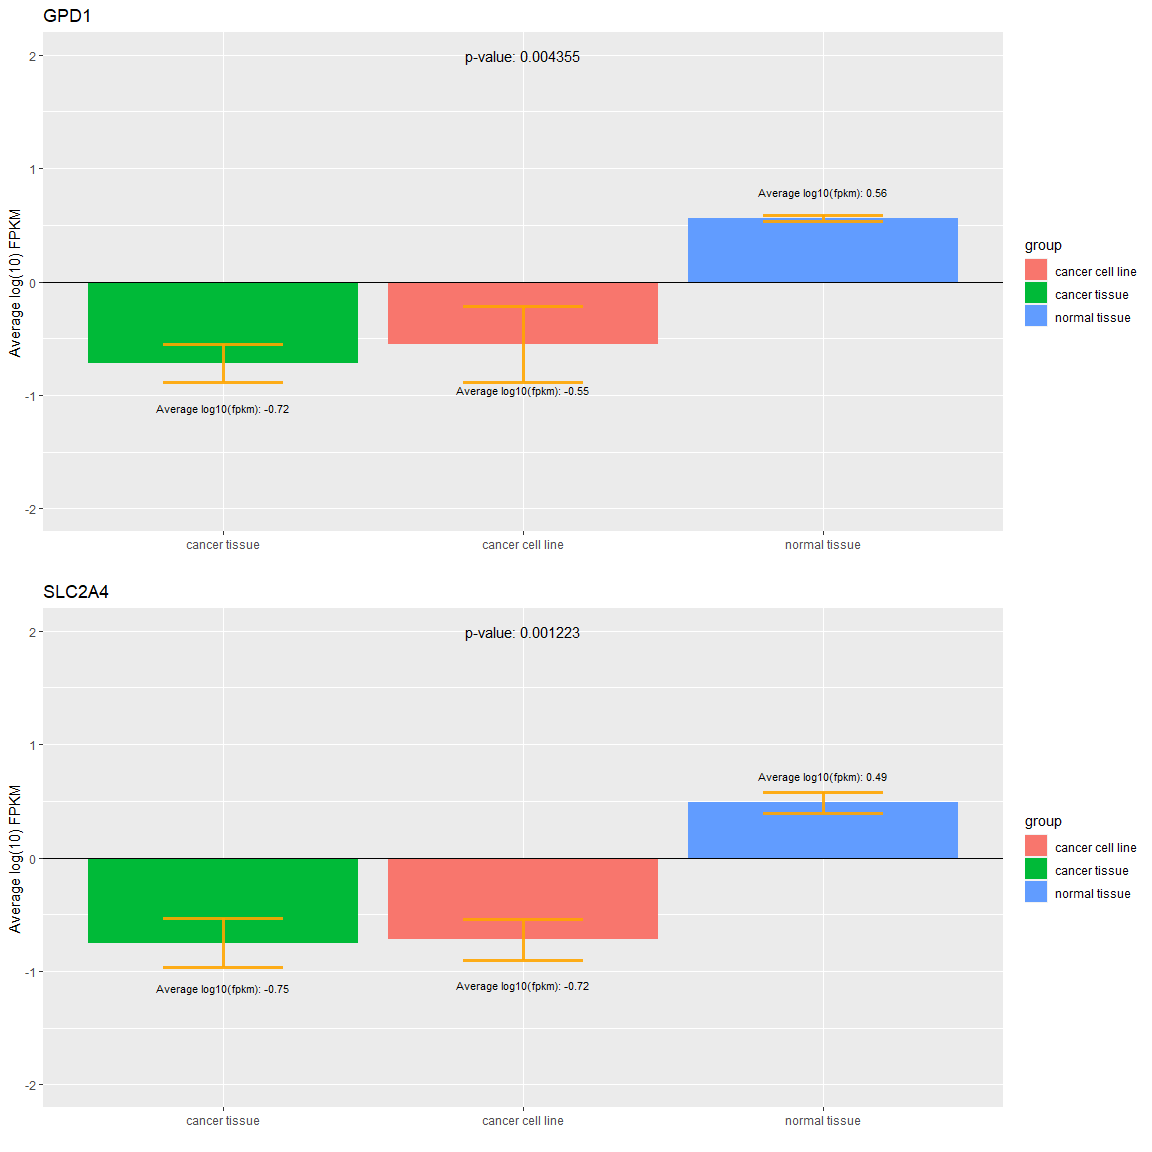
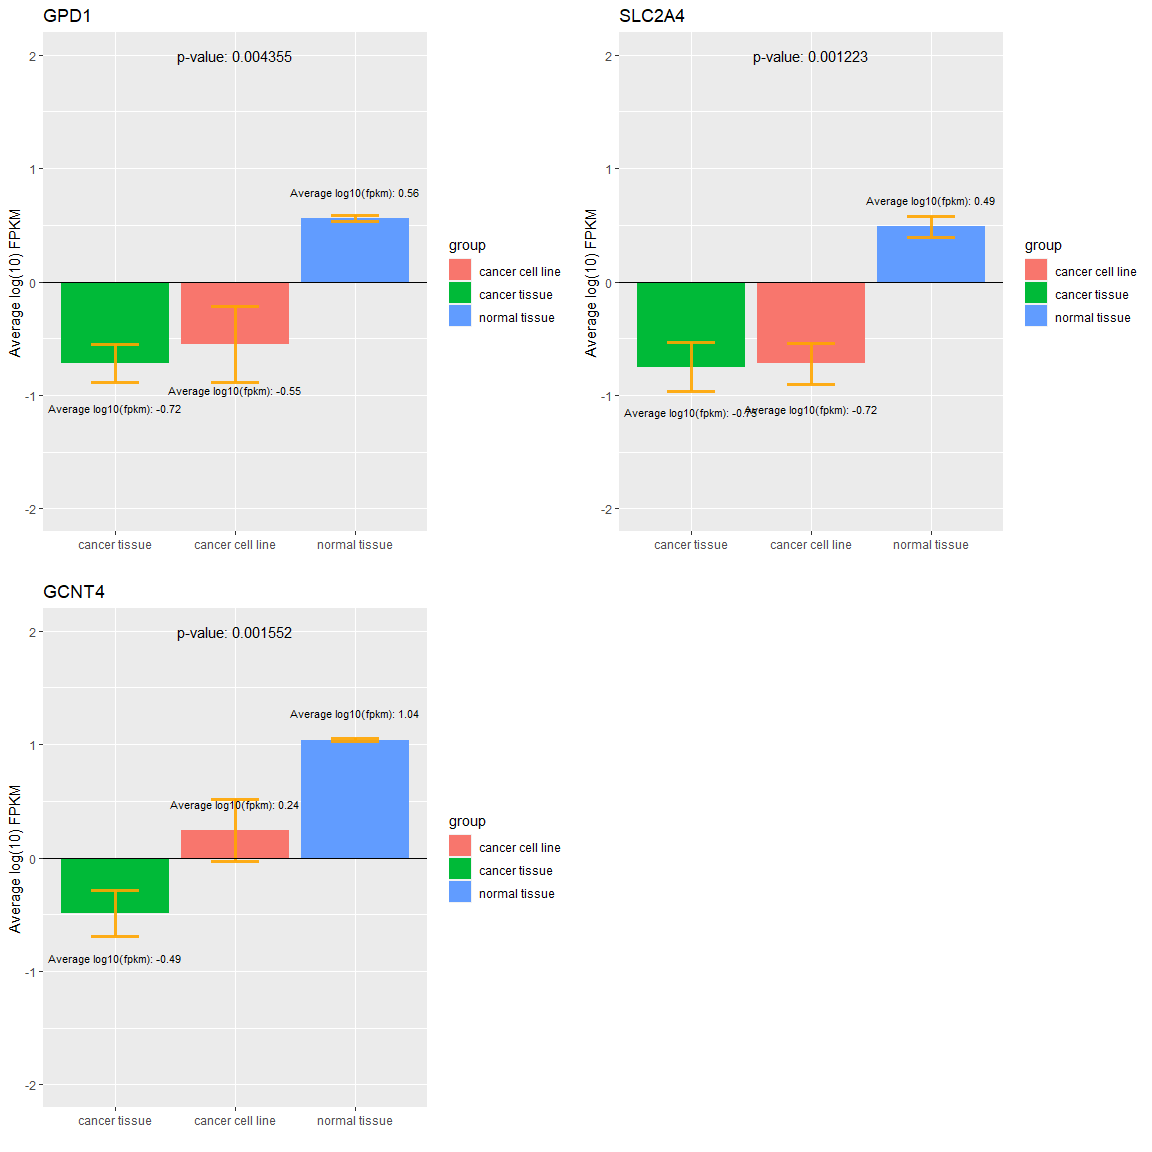
loading webshot and adding 3rd gene of interest

diff --git a/README.md b/README.md
@@ -18,6 +18,7 @@ library(gridExtra)
 library(tidytext)
 library(readxl)
 library(circlize)
+library(webshot)
 ```
 
 #### Plot Read Counts For all 8 Samples
@@ -91,10 +92,7 @@ grViz("digraph flowchart {
       ")
 ```
 
-    ## PhantomJS not found. You can install it with webshot::install_phantomjs(). If it is installed, please make sure the phantomjs executable can be found via the PATH variable.
-
-<div id="htmlwidget-286df22d1a4db59614d9" style="width:768px;height:576px;" class="grViz html-widget"></div>
-<script type="application/json" data-for="htmlwidget-286df22d1a4db59614d9">{"x":{"diagram":"digraph flowchart {\n      # node definitions with substituted label text\n      node [fontname = Arial, shape = rectangle, color = Lavender, style = filled]        \n      tab1 [label = \"Download read (FASTQ) files from SRA using SRA-Toolkit\"]\n      tab2 [label = \"Download reference genome (FASTA) and annotation (GTF) files from Ensembl\"]\n      tab3 [label = \"Build index with Bowtie2\"]\n      tab4 [label = \"Align reads to whole genome using Tophat2 (BAM)\"]\n      tab5 [label = \"Align reads to whole transcriptome using Tophat2 (BAM)\"]\n      tab6 [label = \"Obtain FPKM values using Cuffdiff with statistics turned off\"]\n      tab7 [label = \"Obtain p-values and log2 fold differences between normal and cancer tissue using Cuffdiff with statistics on\"]\n      tab8 [label = \"Output file: genes.fpkm_tracking\"]\n      tab9 [label = \"Output file: gene_exp.diff\"]\n\n      # edge definitions with the node IDs\n      tab1 -> tab3;\n      tab2 -> tab3;\n      tab3 -> tab4; \n      tab3 -> tab5;\n      tab4 -> tab6;\n      tab4 -> tab7;\n      tab6 -> tab8;\n      tab7 -> tab9;\n      }","config":{"engine":"dot","options":null}},"evals":[],"jsHooks":[]}</script>
+<img src="README_files/figure-gfm/Flowchart of bioinformatic workflow-1.png" style="display: block; margin: auto;" />
 
 #### Post-Tophat2 Alignment Metrics
 
@@ -237,8 +235,7 @@ grViz(diagram = "digraph flowchart {
       ")
 ```
 
-<div id="htmlwidget-16570ea1098781111bd7" style="width:768px;height:576px;" class="grViz html-widget"></div>
-<script type="application/json" data-for="htmlwidget-16570ea1098781111bd7">{"x":{"diagram":"digraph flowchart {\n      # define node aesthetics\n      node [fontname = Arial, shape = rect, color = DeepSkyBlue, style = filled, fontcolor = White]        \n      tab1 [label = \"Initial Number of Genes: 62,635\"]\n      tab2 [label = \"Filter p-value < 0.001 and log2 fold change < -5 or > 5\"]\n      tab3 [label = \"280 Genes Remaining\"]\n      tab4 [label = \"198 Genes Downregulated\"]\n      tab5 [label = \"82 Genes Upregulated\"]\n# set up node layout\n      tab1 -> tab2;\n      tab2 -> tab3;\n      tab3 -> tab4;\n      tab3 -> tab5\n      }","config":{"engine":"dot","options":null}},"evals":[],"jsHooks":[]}</script>
+<img src="README_files/figure-gfm/gene filtering-1.png" style="display: block; margin: auto;" />
 
 Perform filtering of genes according to the above diagram
 
@@ -863,7 +860,21 @@ p2 <- lm_df %>%
         group, lm_df)), 6), sep = " "), x = 2, y = 2)
 
 
-grid.arrange(p1, p2, ncol = 1)
+p3 <- lm_df %>%
+    select(group, GCNT4) %>%
+    group_by(group) %>%
+    summarise(mean = mean(GCNT4), sd = sd(GCNT4)) %>%
+    ggplot(aes(x = forcats::fct_reorder(factor(group), mean),
+        y = mean, fill = group)) + geom_col() + geom_errorbar(aes(x = group,
+    ymin = mean - sd, ymax = mean + sd), width = 0.4, colour = "orange",
+    alpha = 0.9, size = 1.3) + geom_text(aes(label = paste("Average log10(fpkm):",
+    round(mean, 2), sep = " "), hjust = 0.5, vjust = ifelse(mean <
+    0, 5.5, -2.5)), size = 3) + geom_hline(yintercept = 0) +
+    ylim(-2, 2) + labs(x = "", y = "Average log(10) FPKM", title = "GCNT4 ") +
+    annotate("text", label = paste("p-value:", round(lmp(lm(GCNT4 ~
+        group, lm_df)), 6), sep = " "), x = 2, y = 2)
+
+grid.arrange(p1, p2, p3, ncol = 2)
 ```
 
 <img src="README_files/figure-gfm/barplots of individual genes-1.png" style="display: block; margin: auto;" />
